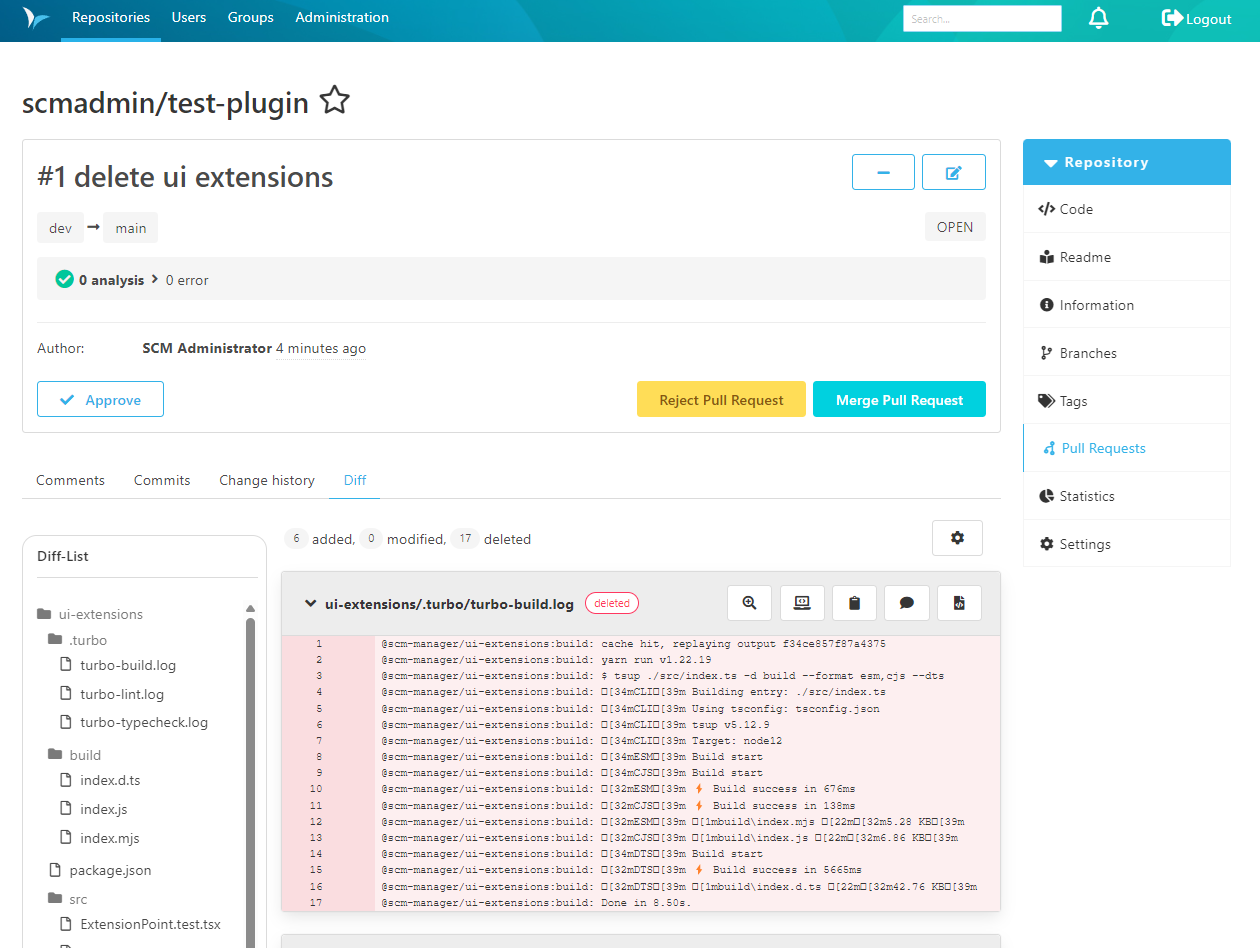
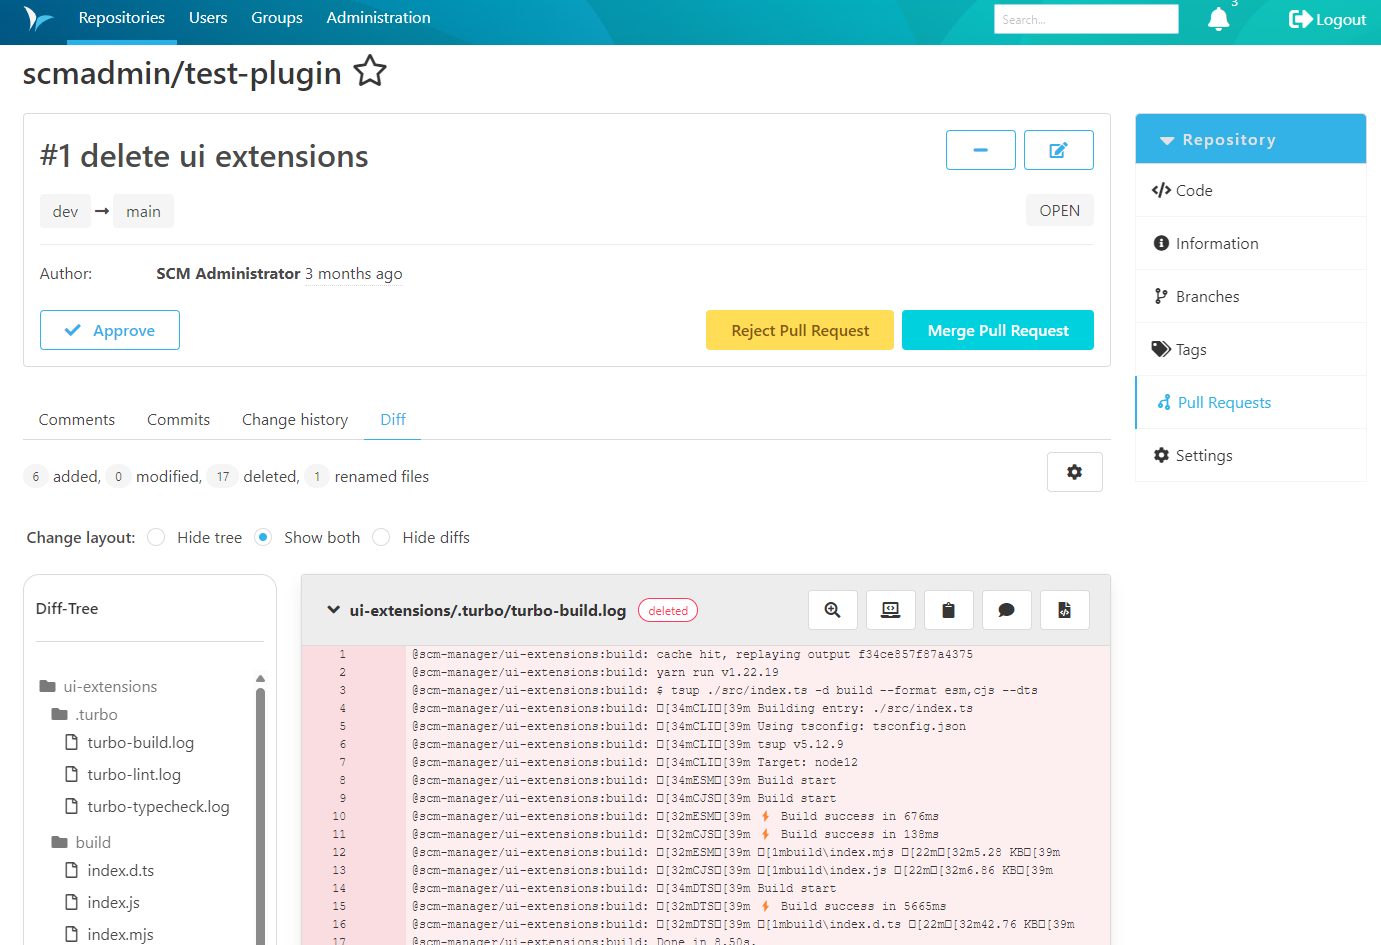
Layout for diffs
Squash commits of branch feature/radiobuttons_for_layout:

- Able to change layout in diffs

- Update to new plugins versions

- Add hook to layout state

- delete localStorage.ts

- Fix translation key

- Fix Stickyheader

- Fix formatting

- Remove typescript again

- Update docs

- Fix typo

- Rephrase changelog

diff --git a/src/main/js/diff/LoadingDiff.tsx b/src/main/js/diff/LoadingDiff.tsx
@@ -30,6 +30,8 @@ import {
   FileTreeContent,
   getFileNameFromHash,
   WhitespaceMode,
+  LayoutRadioButtons,
+  useLayoutState,
 } from "@scm-manager/ui-components";
 import { Comment } from "../types/PullRequest";
 import PartialNotification from "./PartialNotification";
@@ -54,13 +56,24 @@ const StickyContainer = styled.div<{ top: number }>`
   z-index: 11;
 `;
 
-export const CoreDiffContent = styled.div`
-  width: 100%;
+export const StickyTreeContainer = styled.div`
+  position: sticky;
+  top: 6rem;
+  height: 100%;
+`;
+
+export const Divider = styled.div`
+  margin-bottom: 16px;
+  margin-left: 12px;
+  margin-right: 12px;
+  border-bottom: 1px solid var(--scm-border-color);
+  box-shadow: 0 24px 3px -24px var(--scm-border-color);
 `;
 
 const LoadingDiff: FC<LoadingDiffProps> = ({ diffUrl, actions, pullRequestComments, stickyHeader, ...props }) => {
   const [t] = useTranslation("plugins");
   const [ignoreWhitespace, setIgnoreWhitespace] = useState<WhitespaceMode>("NONE");
+  const [layout, setLayout] = useLayoutState();
   const { error, isLoading, data, fetchNextPage, isFetchingNextPage } = useDiff(diffUrl, {
     limit: 25,
     refetchOnWindowFocus: false,
@@ -73,6 +86,7 @@ const LoadingDiff: FC<LoadingDiffProps> = ({ diffUrl, actions, pullRequestCommen
 
   const setFilePath = (path: string) => {
     setPrevHash("");
+    setLayout("Both");
     history.push(`#diff-${encodeURIComponent(path)}`);
   };
 
@@ -99,31 +113,45 @@ const LoadingDiff: FC<LoadingDiffProps> = ({ diffUrl, actions, pullRequestCommen
   const overlapBetweenPanelHeader = 5;
 
   return (
-    <div className="is-flex has-gap-4 mb-4 mt-4 is-justify-content-space-between">
-      <FileTreeContent className={"is-three-quarters"}>
-        {data?.tree && (
-          <DiffFileTree
-            tree={data.tree}
-            currentFile={decodeURIComponent(getFileNameFromHash(location.hash) ?? "")}
-            setCurrentFile={setFilePath}
-          />
-        )}
-      </FileTreeContent>
-      <CoreDiffContent>
+    <div className="columns is-multiline">
+      <div className="column is-four-fifth p-0 pt-3 pl-2">
         <DiffStatistics data={data.statistics} />
-        <StickyContainer
-          className="is-hidden-mobile"
-          top={typeof stickyHeader === "number" && stickyHeader > buttonHeight ? (stickyHeader - buttonHeight) / 2 : 0}
-        >
-          <DiffDropDown
-            collapseDiffs={collapseDiffs}
-            renderOnMount={true}
-            ignoreWhitespacesMode={ignoreWhitespace}
-            setIgnoreWhitespacesMode={(whiteSpaceMode: WhitespaceMode) => {
-              setIgnoreWhitespace(whiteSpaceMode);
-            }}
-          />
-        </StickyContainer>
+      </div>
+      <StickyContainer
+        className="is-hidden-mobile column is-one-fifth p-0"
+        top={typeof stickyHeader === "number" && stickyHeader > buttonHeight ? (stickyHeader - buttonHeight) / 2 : 0}
+      >
+        <DiffDropDown
+          collapseDiffs={collapseDiffs}
+          renderOnMount={true}
+          ignoreWhitespacesMode={ignoreWhitespace}
+          setIgnoreWhitespacesMode={(whiteSpaceMode: WhitespaceMode) => {
+            setIgnoreWhitespace(whiteSpaceMode);
+          }}
+        />
+      </StickyContainer>
+      <div className="column is-full p-0 pl-3 pb-4">
+        <LayoutRadioButtons layout={layout} setLayout={setLayout} />
+      </div>
+      <StickyTreeContainer
+        className={
+          (layout === "Both" ? "column pl-3 is-one-quarter" : "column pl-3 is-full") +
+          (layout !== "Diff" ? "" : " is-hidden")
+        }
+      >
+        <FileTreeContent isBorder={layout !== "Diff"}>
+          <h3 className={"title is-6 mt-5 pl-3"}>{t("scm-review-plugin.diff.treeTitle")}</h3>
+          <Divider />
+          {data?.tree && (
+            <DiffFileTree
+              tree={data.tree}
+              currentFile={decodeURIComponent(getFileNameFromHash(location.hash) ?? "")}
+              setCurrentFile={setFilePath}
+            />
+          )}
+        </FileTreeContent>
+      </StickyTreeContainer>
+      <div className={layout !== "Tree" ? "column" : "is-hidden"}>
         <CoreDiff
           diff={data.files}
           ignoreWhitespace={ignoreWhitespace}
@@ -147,7 +175,7 @@ const LoadingDiff: FC<LoadingDiffProps> = ({ diffUrl, actions, pullRequestCommen
             isFetchingNextPage={isFetchingNextPage}
           />
         ) : null}
-      </CoreDiffContent>
+      </div>
     </div>
   );
 };

diff --git a/docs/de/details-page/index.md b/docs/de/details-page/index.md
@@ -28,11 +28,16 @@ Für jede Datei gibt es mehrere Schaltflächen für verschiedene Optionen, wie
 - zur Source- oder Target-Datei springen
 - eine Schaltfläche, die einen Merge-Konflikt für diese Datei anzeigt, falls vorhanden
 
-Auf der linken Seite, direkt über der Diff-Ansicht, kann man eine Zusammenfassung der neuen, geänderten und gelöschten Dateien sehen.
+Auf der linken Seite, direkt über der Diff-Ansicht, kann man eine Zusammenfassung der neuen, geänderten, gelöschten, umbenannten und kopierten Dateien sehen.
 
 Auf der rechten Seite, direkt gegenüber der Zusammenfassung der Dateien, befindet sich ein Zahnrad-Menü mit den folgenden Optionen:
 - Mit der ersten Checkbox können die Whitespaces-Änderungen ein- und ausgeblendet werden.
 - Die zweite ermöglicht das Ein- und Ausblenden aller Changesets.
+
+Für die Diffs gibt es drei Radio-Buttons um das Layout zu ändern:
+- Mit dem ersten Button werden nur die Diffs angezeigt.
+- Mit dem zweiten Button werden die Diffs und der Dateibaum angezeigt.
+- Mit dem letzten Button wird nur der Dateibaum angezeigt.
 
 Die Änderungen sind nach dem bekannten Format für Diffs farblich gekennzeichnet:
 

diff --git a/docs/en/details-page/index.md b/docs/en/details-page/index.md
@@ -28,11 +28,16 @@ For each file, you will find multiple buttons for various options, like
 - jump to the source or the target file
 - a button indicating a merge conflict for this file, if there is one
 
-On the left side just above the diff view you are able to see new, modified and deleted files summarized
+On the left side just above the diff view you are able to see new, modified, deleted, renamed and copied files summarized
 
 On the right side, just opposite of the summarized files there is a coghweel button with the following options:
 - The first checkbox show and hide the whitespace changes.
 - The second checkbox can collapse all changesets.
+
+There are three radio buttons to change the layout in the changeset:
+- With the first button, only the diffs are displayed.
+- The second button shows the diffs and the file tree.
+- With the last button, only the file tree is displayed.
 
 The changes are indicated based on the established format:
 
